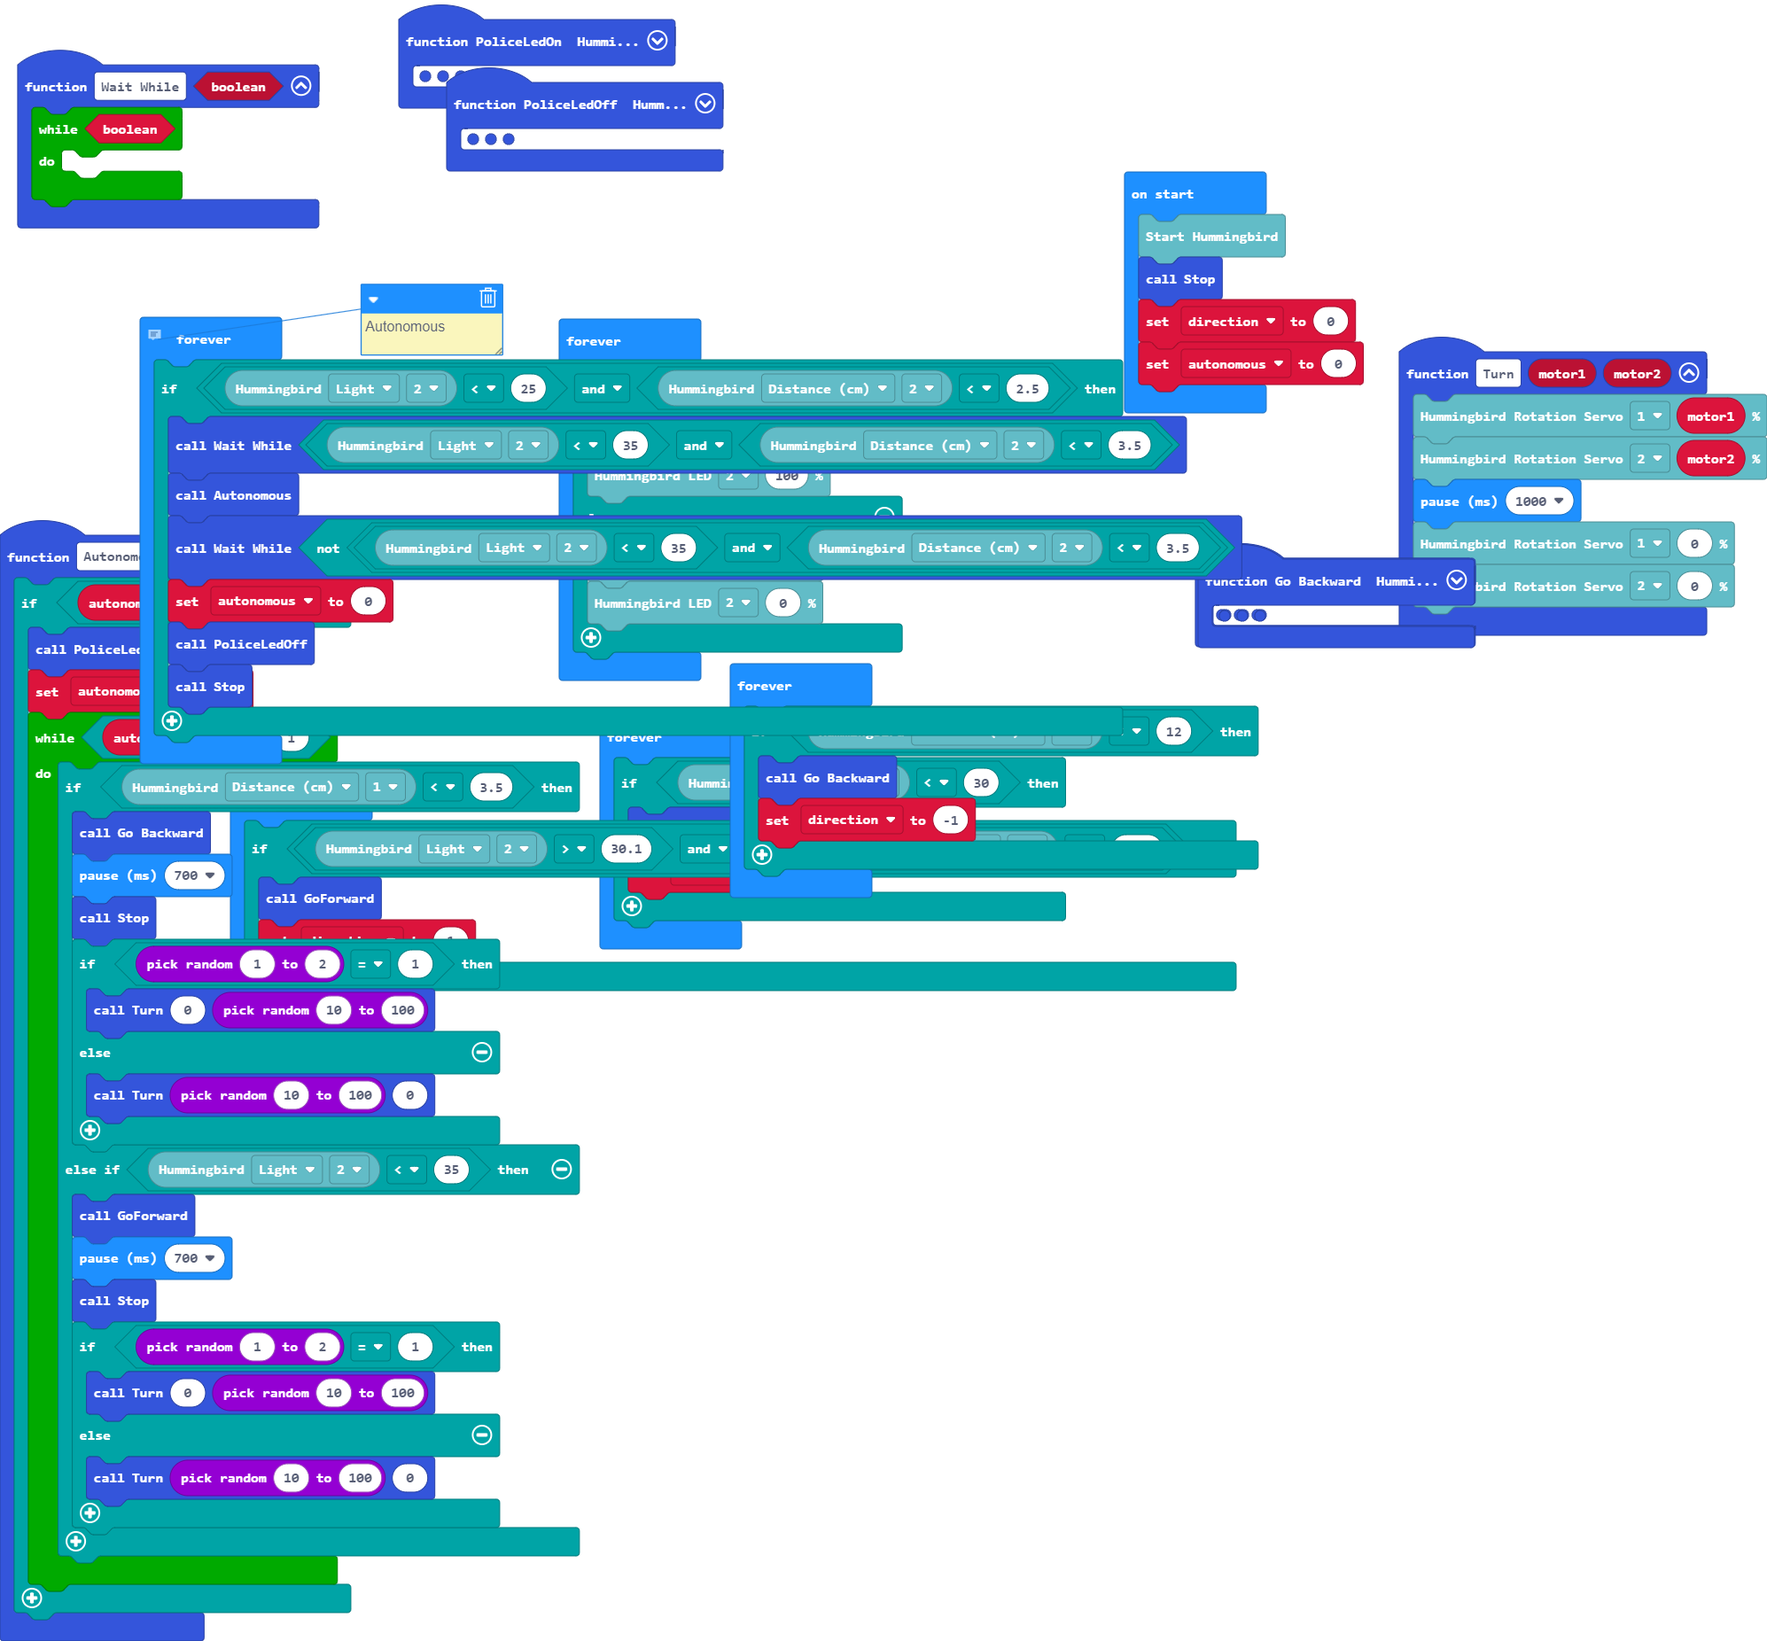
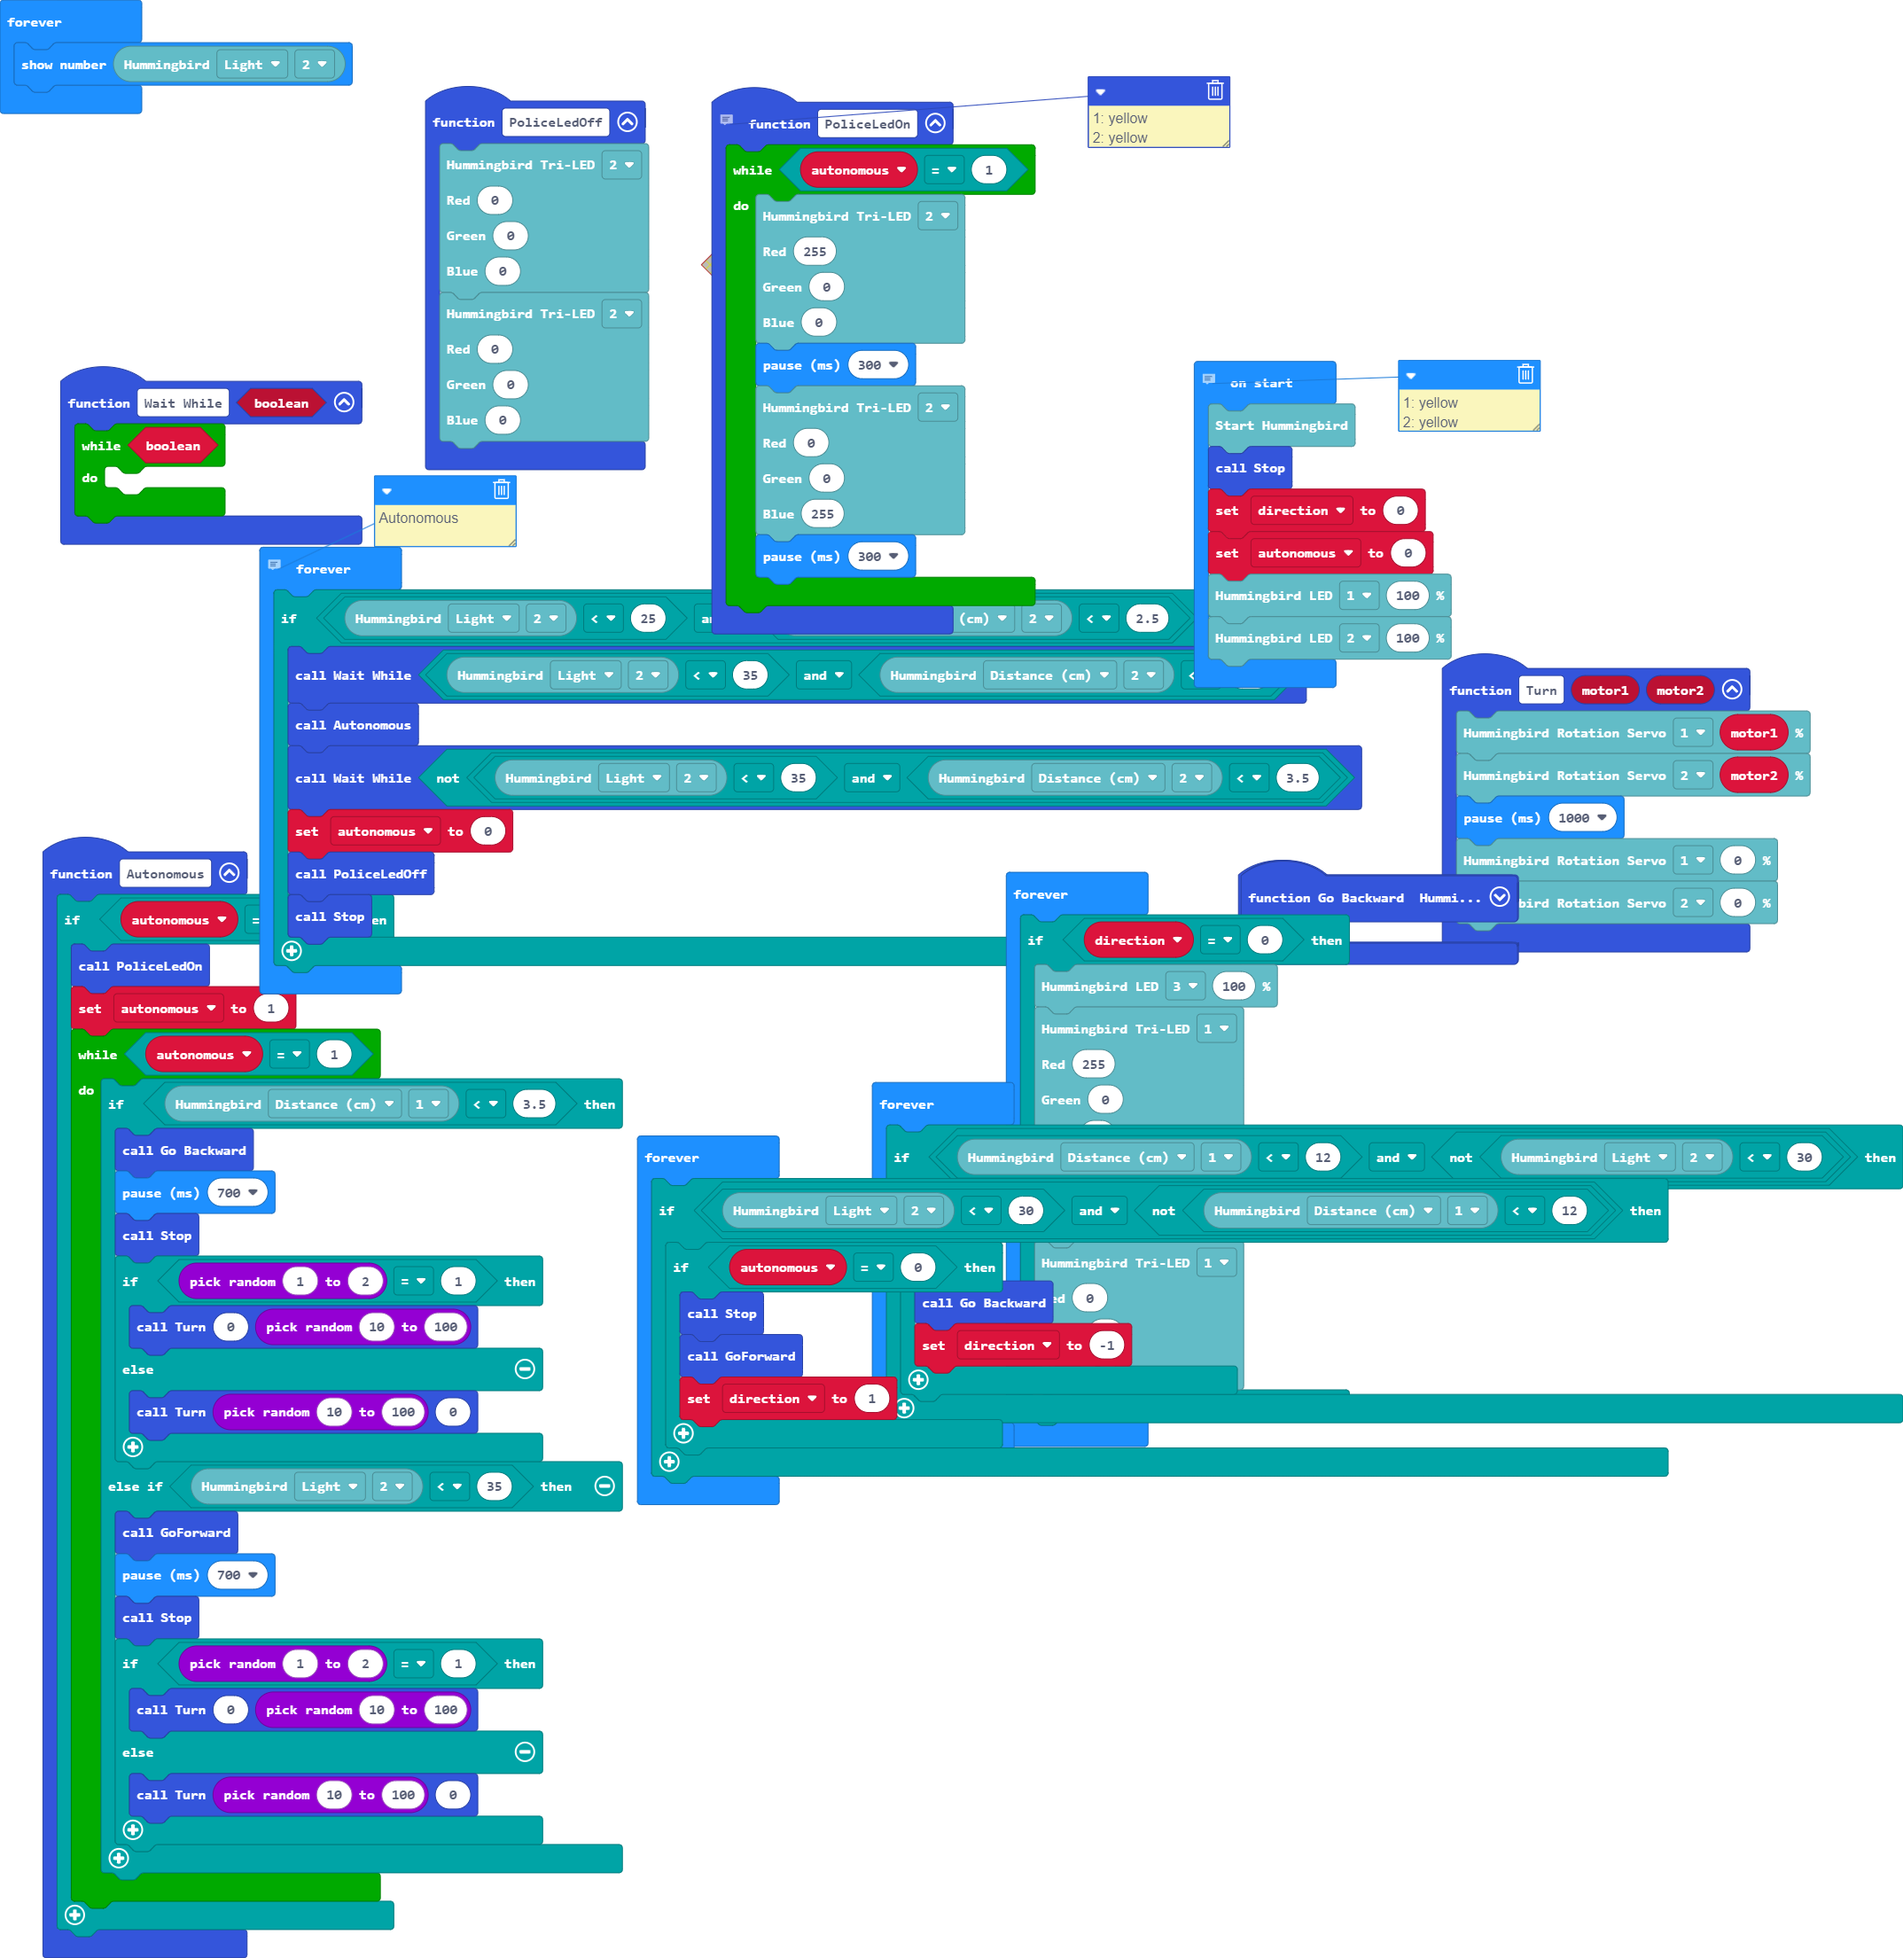
Changed code for light and fixed moving forward/backward at the same time.

diff --git a/main.ts b/main.ts
@@ -17,21 +17,28 @@ function Wait_While (boolean: boolean) {
     	
     }
 }
+// 1: yellow
+// 2: yellow
+// 3: red
+// 1: tri red
+// 2: tri red/blue
 function PoliceLedOn () {
-    hummingbird.setTriLED(
-    TwoPort.Two,
-    255,
-    0,
-    0
-    )
-    basic.pause(300)
-    hummingbird.setTriLED(
-    TwoPort.Two,
-    0,
-    0,
-    255
-    )
-    basic.pause(300)
+    while (autonomous == 1) {
+        hummingbird.setTriLED(
+        TwoPort.Two,
+        255,
+        0,
+        0
+        )
+        basic.pause(300)
+        hummingbird.setTriLED(
+        TwoPort.Two,
+        0,
+        0,
+        255
+        )
+        basic.pause(300)
+    }
 }
 function GoForward () {
     hummingbird.setRotationServo(FourPort.One, 100)
@@ -79,11 +86,21 @@ function Stop () {
     hummingbird.setRotationServo(FourPort.One, 0)
     hummingbird.setRotationServo(FourPort.Two, 0)
 }
+// 1: yellow
+// 2: yellow
+// 3: red
+// 1: tri red
+// 2: tri red/blue
 let autonomous = 0
 hummingbird.startHummingbird()
 Stop()
 let direction = 0
 autonomous = 0
+hummingbird.setLED(ThreePort.One, 100)
+hummingbird.setLED(ThreePort.Two, 100)
+basic.forever(function () {
+    basic.showNumber(hummingbird.getSensor(SensorType.Light, ThreePort.Two))
+})
 // Autonomous
 basic.forever(function () {
     if (hummingbird.getSensor(SensorType.Light, ThreePort.Two) < 25 && hummingbird.getSensor(SensorType.Distance, ThreePort.Two) < 2.5) {
@@ -97,28 +114,38 @@ basic.forever(function () {
 })
 basic.forever(function () {
     if (direction == 0) {
-        hummingbird.setLED(ThreePort.One, 100)
-        hummingbird.setLED(ThreePort.Two, 100)
+        hummingbird.setLED(ThreePort.Three, 100)
+        hummingbird.setTriLED(
+        TwoPort.One,
+        255,
+        0,
+        0
+        )
     } else {
-        hummingbird.setLED(ThreePort.One, 0)
-        hummingbird.setLED(ThreePort.Two, 0)
+        hummingbird.setLED(ThreePort.Three, 0)
+        hummingbird.setTriLED(
+        TwoPort.One,
+        0,
+        0,
+        0
+        )
     }
 })
 basic.forever(function () {
-    if (hummingbird.getSensor(SensorType.Distance, ThreePort.One) < 12) {
-        Go_Backward()
-        direction = -1
+    if (hummingbird.getSensor(SensorType.Distance, ThreePort.One) < 12 && !(hummingbird.getSensor(SensorType.Light, ThreePort.Two) < 30)) {
+        if (autonomous == 0) {
+            Stop()
+            Go_Backward()
+            direction = -1
+        }
     }
 })
 basic.forever(function () {
-    if (hummingbird.getSensor(SensorType.Light, ThreePort.Two) < 30) {
-        GoForward()
-        direction = 1
-    }
-})
-basic.forever(function () {
-    if (hummingbird.getSensor(SensorType.Light, ThreePort.Two) > 30.1 && hummingbird.getSensor(SensorType.Distance, ThreePort.One) > 12.1) {
-        GoForward()
-        direction = 1
+    if (hummingbird.getSensor(SensorType.Light, ThreePort.Two) < 30 && !(hummingbird.getSensor(SensorType.Distance, ThreePort.One) < 12)) {
+        if (autonomous == 0) {
+            Stop()
+            GoForward()
+            direction = 1
+        }
     }
 })
